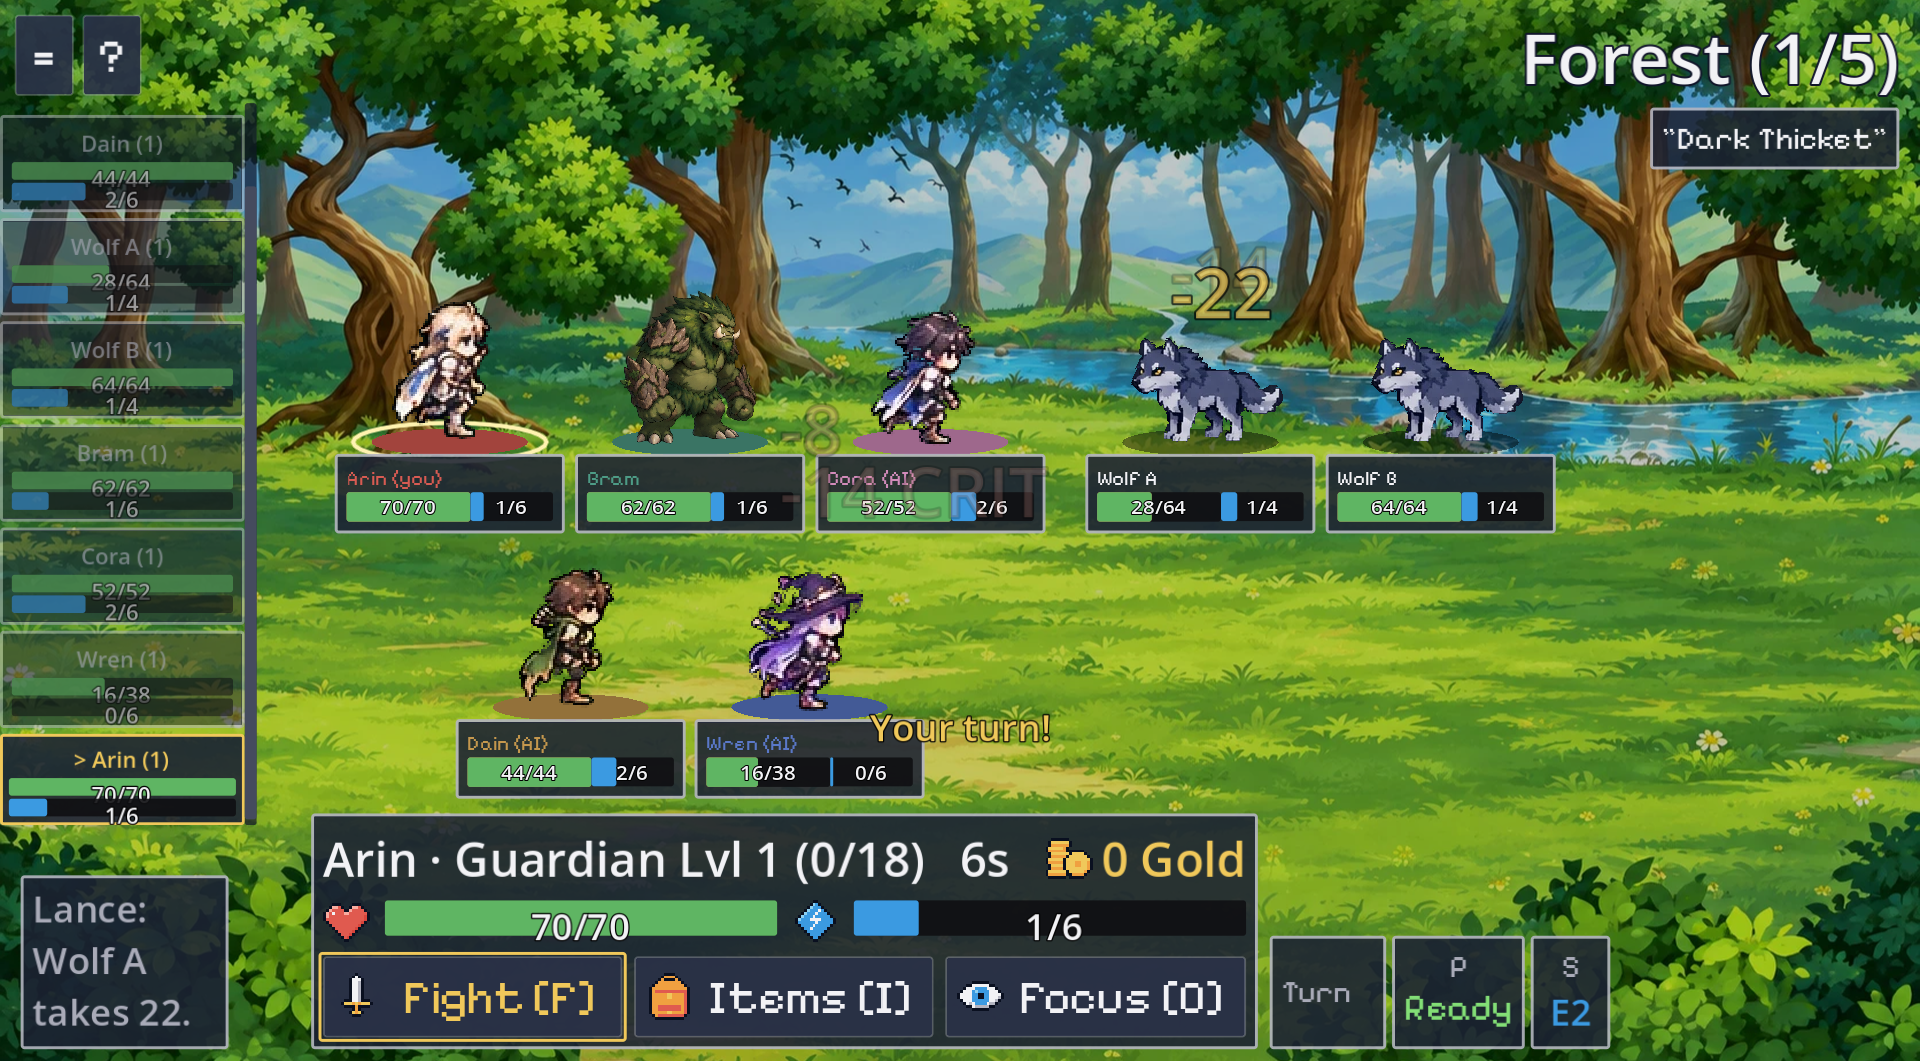
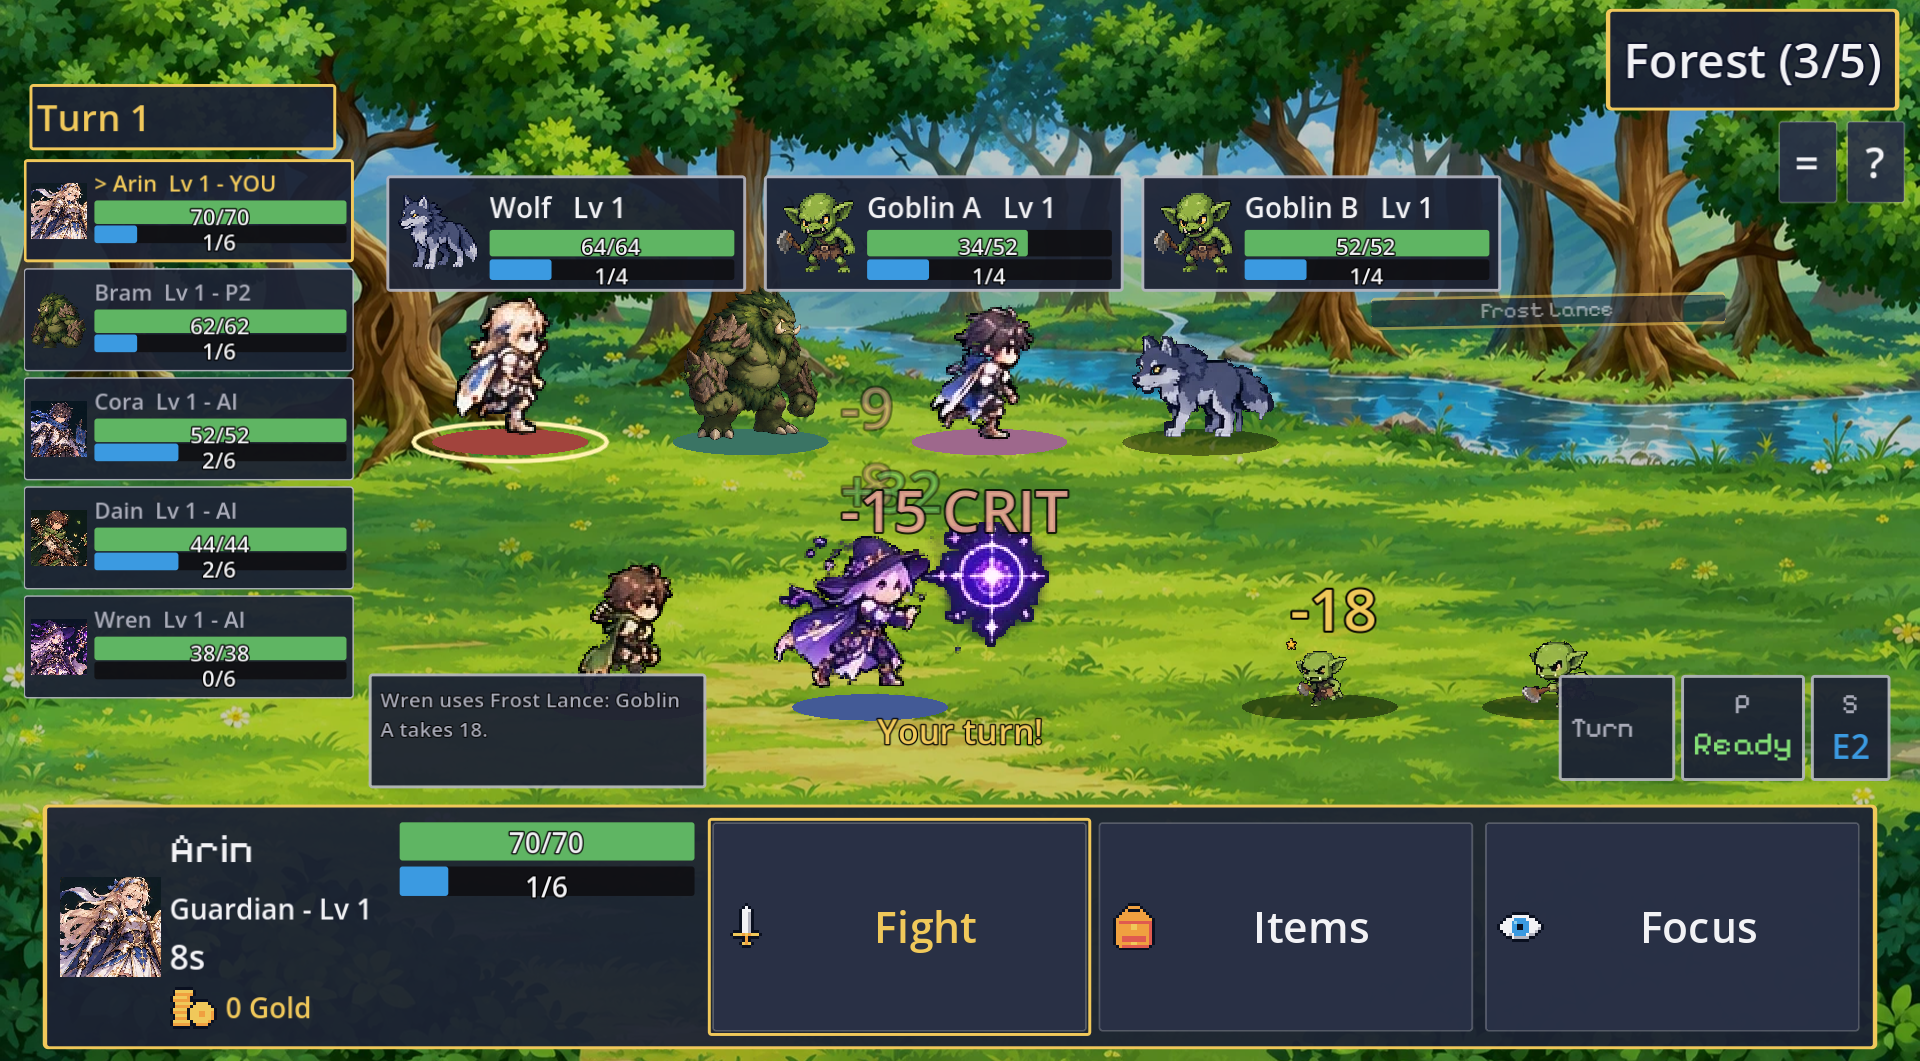
docs(review): redo #45 responsive verification on the redesigned UI

diff --git a/docs/review/2026-10-01-responsive-verification.md b/docs/review/2026-10-01-responsive-verification.md
@@ -1,35 +1,40 @@
-# Responsive layout verification — 2026-10-01 (issue #45)
+# Responsive layout verification — 2026-10-01 (issue #45), redone on the redesigned UI
 
-Screens: Battle, Merchant, Rest camp. Captured with `tools/dev/ui_preview.gd` (`--resolution=`, `--scale=`; Merchant seed 11, Rest seed 5) and inspected by eye.
+The first version of this report (written before PR #119/#125 redesigned combat and camp) no longer applied. Everything below was re-captured on `main` after the redesign and the follow-up fixes (#127 polish, #130 badges, #134 boss banner, f23ece0 camp/battle at 1.4×). Tool: `tools/dev/ui_preview.gd` (`--resolution=`, `--scale=`; Rest seed 5/9, Merchant seed 9/11).
+
+"Viewed" = I looked at the PNG myself. "Reported" = a Codex run reported pass but I did not open that image.
 
 | Screen | 1280×720 ×1.0 | 1280×720 ×1.4 | 1920×1080 ×1.0 | 1920×1080 ×1.4 |
 | --- | --- | --- | --- | --- |
-| Battle | Pass | Pass (after badge fix) | Pass | Pass |
-| Merchant | Pass | Pass† | Pass | Pass |
-| Rest | Pass | Pass* | Pass | Pass* |
+| Battle (turn) | Viewed, pass | Viewed (boss turn), pass | Reported | Viewed, pass |
+| Boss warning banner | Viewed, pass | Viewed, pass | Reported | Viewed, pass |
+| Rest camp | Viewed, pass | Viewed, pass | Viewed, pass | Reported |
+| Merchant | Not viewed | Not viewed | Not viewed | Viewed, pass |
 
-† The 1280×720 ×1.4 Merchant capture came out at 1920×1080 size (preview window stretches from the 1280×720 base), so it is judged from the 1080p ×1.4 image; the layout is proportional. Re-shoot at true 1280×720 if the team wants strict evidence.
+## What was found and fixed during this pass
 
-\* Known, deliberate behavior at 1.4× text: the Equipment grid switches to 2 columns, so the stat sheet (HP, Energy, STR…) shrinks to about one visible row and must be scrolled. Nothing overlaps, but this is the "1.45× text scrolling" decision awaiting team sign-off in #39. The Tip box also covers the last visible row of the left list (it scrolls). No change made.
+- Combat status badges (Turn / Ready / energy) ran off the right edge after the redesign → #130.
+- Boss WARNING banner covered the boss nameplate and the first turn-list row at ×1.4; battle log clipped its newest line → #134.
+- Items card text clipped, target caption over nameplates, Summary banner over the title, Gold wording → #127.
+- Camp overflowed the screen at 1280×720 ×1.4 (Equipment panel off the right edge, buttons below the screen, mid-word breaks) → fixed on main by f23ece0 (tabs moved inside their columns; the middle tab labels now read in full).
 
-## Fix made
+## Remaining minor items (not fixed)
 
-- `src/client/match/battle/battle_view.gd`: the Turn and skill cooldown badges now scale their minimum size with `settings.text_scale`; at 1.4× they were compressed beside the action panel.
+- At ×1.4 the Equipment gear grid is below a scrolling area; the stat sheet and slots need scrolling (known; sign-off pending in #39).
+- At 1920×1080 ×1.4 an enemy sprite on the far right can sit under the Turn/Ready/energy badges, and the "Frost Lance"/"Crushing Root" move caption bar is faint under the enemy plates.
+- Turn-list heading flush to the left screen edge at 1920×1080.
 
 ## Other checks
 
-- Minor, not fixed: at 1920×1080 ×1.0 the "Turn 1" heading above the turn list sits flush against the left screen edge and its first letter touches the edge.
-
-- No important text, number, badge or control overlaps or clips at 1.0×. Transient floating damage numbers may overlap nameplates mid-animation (by design).
-- Keyboard focus and reduced-motion behavior: covered by `tests/client/test_accessibility_baseline.gd` (merged in #112); this change does not alter them.
-- Browsers: local web smoke cannot run here (no `build/web`, no Playwright). CI job "Export PC, browser and server builds + cross-platform smoke test" runs `tools/ci/web_smoke.mjs` on Chromium and is green on main. No browser-specific issue observed; Firefox/Safari are not covered by automation.
-- Tests: 447 passed, 0 failed.
+- Keyboard focus and reduced-motion behavior are covered by `tests/client/test_accessibility_baseline.gd` (#112) and the layout smokes `t35`/`t43`/`t88`.
+- Browsers: local web smoke cannot run here (no `build/web`, no Playwright). CI "Export PC, browser and server builds + cross-platform smoke test" runs `tools/ci/web_smoke.mjs` on Chromium and is green. Firefox/Safari are not covered.
+- Full suite on main after these merges: 453 passed, 0 failed.
 
 ## Screenshots
 
-- [Battle 1280×720 ×1.4](img/2026-10-01-battle-1280x720-scale-1.4.png)
 - [Battle 1920×1080 ×1.4](img/2026-10-01-battle-1920x1080-scale-1.4.png)
-- [Merchant 1280×720 ×1.0](img/2026-10-01-merchant-1280x720-scale-1.0.png)
-- [Merchant 1920×1080 ×1.4](img/2026-10-01-merchant-1920x1080-scale-1.4.png)
+- [Boss warning 1280×720 ×1.4](img/2026-10-01-boss-warning-1280x720-scale-1.4.png)
+- [Rest 1280×720 ×1.0](img/2026-10-01-rest-1280x720-scale-1.0.png)
 - [Rest 1280×720 ×1.4](img/2026-10-01-rest-1280x720-scale-1.4.png)
-- [Rest 1920×1080 ×1.4](img/2026-10-01-rest-1920x1080-scale-1.4.png)
+- [Rest 1920×1080 ×1.0](img/2026-10-01-rest-1920x1080-scale-1.0.png)
+- [Merchant 1920×1080 ×1.4](img/2026-10-01-merchant-1920x1080-scale-1.4.png)
